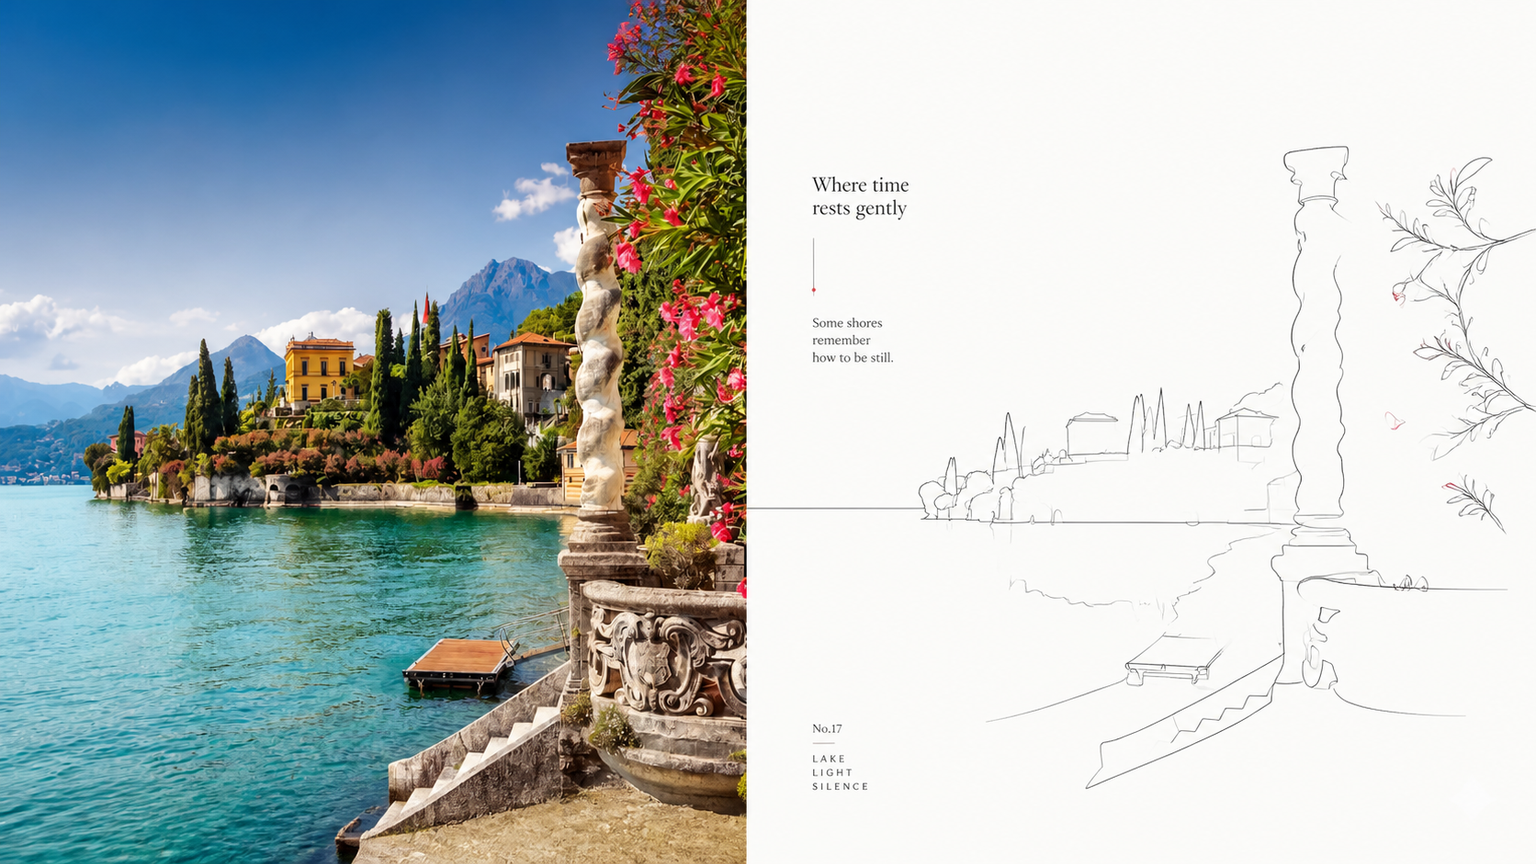
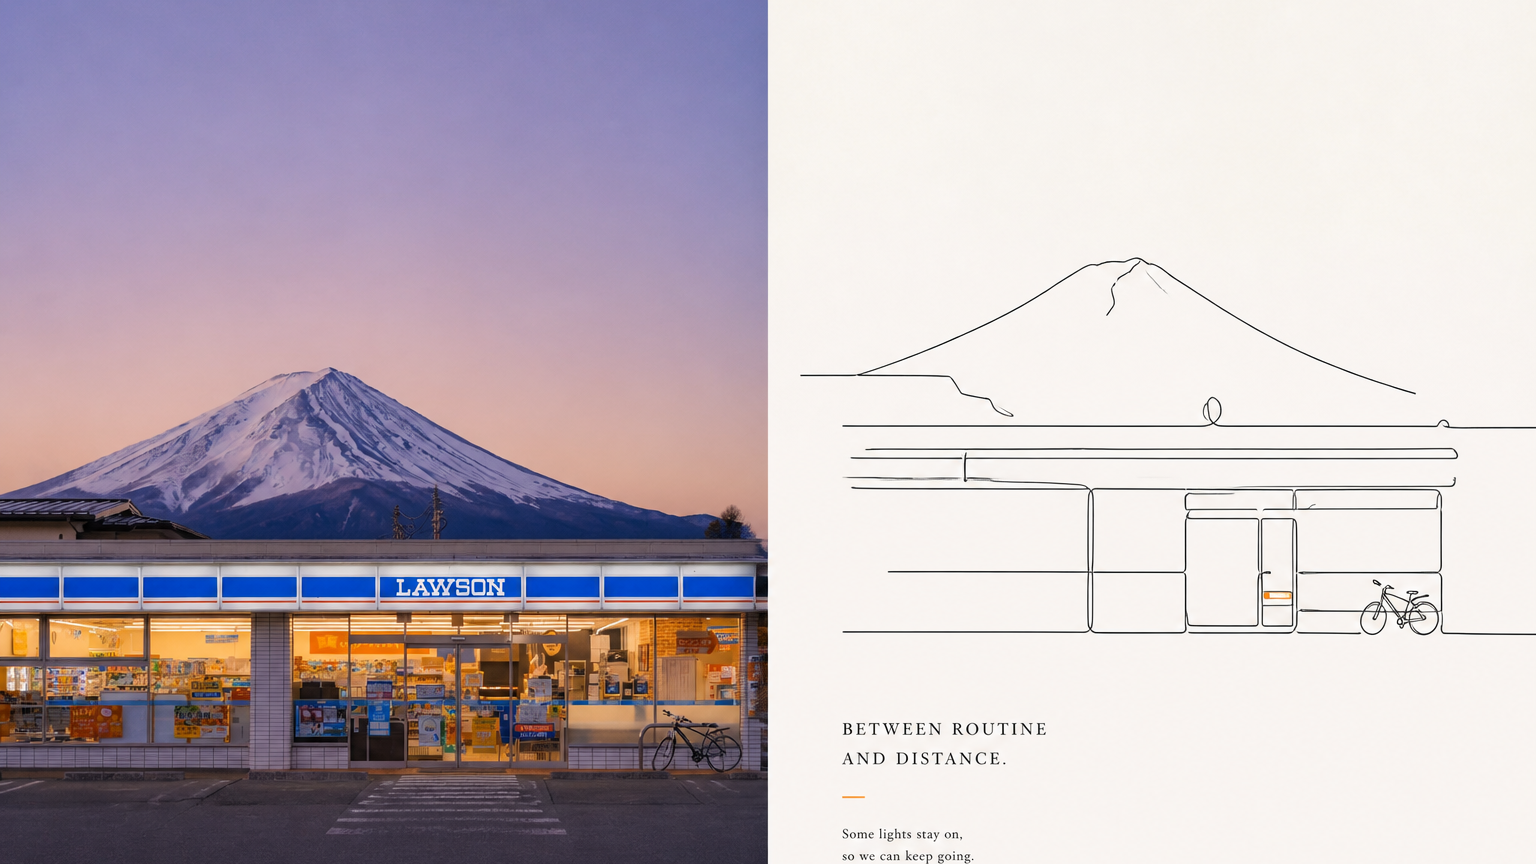
docs: add four 16:9 left-right samples

diff --git a/README.en.md b/README.en.md
@@ -16,6 +16,28 @@
 
 </div>
 
+<!-- xxd-human-intro:start -->
+## The short, honest version
+
+Ever had a photo you loved turn into generic “AI design”? The subject survives, but the relationship, mood, and tiny details that made the photo yours disappear.
+
+That frustration is why I made **Panel 011**. It does not press a template onto your image. It first works out what must not be lost, then translates it into **Distil a photograph into philosophical minimal continuous line worth looking at slowly**.
+
+### Understand it in 30 seconds
+
+- **Give it:** one photo, a folder of images, or a rough idea.
+- **It does:** preserves recognizable people, objects, actions, and relationships, then redesigns them in this Panel’s own visual language.
+- **You get:** ready-to-use PNGs—comparison layouts, design-only artwork, multiple ratios, or a wallpaper set.
+
+### The easiest way to try it
+
+You do not need to study every option first. Give your Agent an image and say:
+
+> Use XXD Panel 011 on this image and recommend the best layout and size first.
+
+Check the samples below if you want to feel out the aesthetic. If you are ready, jump to [Get started](#get-started). The full modes, sizes, and parameters are tucked into an expandable reference for later.
+<!-- xxd-human-intro:end -->
+
 ## Samples · From X
 
 <table>
@@ -29,6 +51,11 @@
   </tr>
   <tr>
     <td colspan="2"><img src="./assets/examples/sample-05.png" alt="XXD Panel 011 Sample 5"></td>
+  </tr>
+  <tr>
+    <td width="33%"><img src="./assets/examples/sample-06.png" alt="XXD Panel 011 Sample 6"></td>
+    <td width="33%"><img src="./assets/examples/sample-07.png" alt="XXD Panel 011 Sample 7"></td>
+    <td width="33%"><img src="./assets/examples/sample-08.png" alt="XXD Panel 011 Sample 8"></td>
   </tr>
 </table>
 
@@ -86,6 +113,9 @@ If an unrelated photograph could replace the source without materially changing 
 - **Whitespace narrates:** white or warm paper dominates; the subject may be small, offset, cropped, or suspended while silence carries time and distance.
 - **One memory colour:** at most one tiny source-derived hue marks an object, node, segment, light point, or relation focus and never repeats decoratively.
 - **Artist-book microtype:** one short title plus one or two micro-elements follow the line, stop at its end, hide in silence, or use the line as a baseline.
+
+<details>
+<summary><strong>Full capabilities and parameters (open when needed)</strong></summary>
 
 ## The original brief is authoritative
 
@@ -228,6 +258,8 @@ GPT Image 2 is the default first choice. It keeps this project's established wor
 Seedance 5.0 Pro, Nano Banana Pro (Gemini Image Pro), Nano Banana 2 (Gemini Image Flash), or another compatible bitmap model may also be used when it is actually available through the current tools or configured routes and can satisfy source fidelity, whole-canvas ratio, target-language text, and linked-wallpaper multi-reference requirements. An alternative changes only the generation route; it must not change modes, canvas, copy, locale, wallpaper relationship, or the complete-canvas-first strategy.
 
 If no suitable route is available, the Skill asks the user to enable an image-generation tool or provide an API key. User-provided credentials may be used for the current task without being echoed, displayed, logged, or exposed. They are not persisted, and provider, account, billing, or global route configuration is not modified, unless the user explicitly requests that configuration change.
+
+</details>
 
 ## Get started
 

diff --git a/assets/examples/README.md b/assets/examples/README.md
@@ -11,5 +11,8 @@
   - `sample-03.jpg`
   - `sample-04.jpg`
   - `sample-05.png` — generated 16:9 left-right English-copy sample from the Chenxiang poster batch
+  - `sample-06.png` — generated 16:9 left-right English-copy sample from the Chenxiang poster batch
+  - `sample-07.png` — generated 16:9 left-right English-copy sample from the Chenxiang poster batch
+  - `sample-08.png` — generated 16:9 left-right English-copy sample from the Chenxiang poster batch
 
 The repository READMEs display these local copies; the original four samples link back to their X post, while sample-05 is a newly generated batch sample. The samples demonstrate the style's aesthetic motive and range only; they never become generation references, source material, fixed subjects, palettes, composition, copy, or default canvas sizes.
